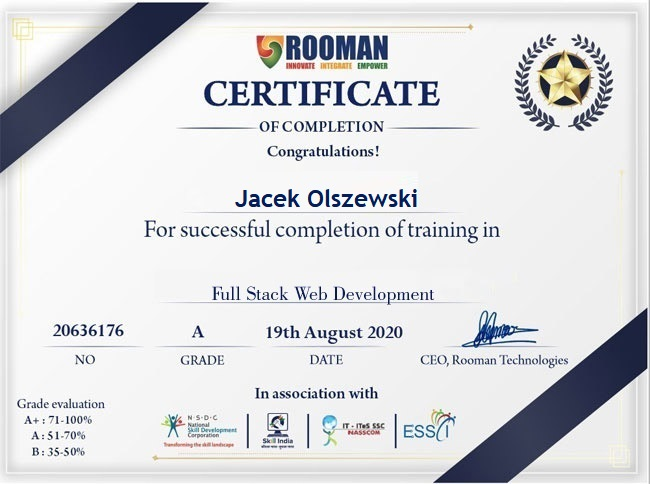
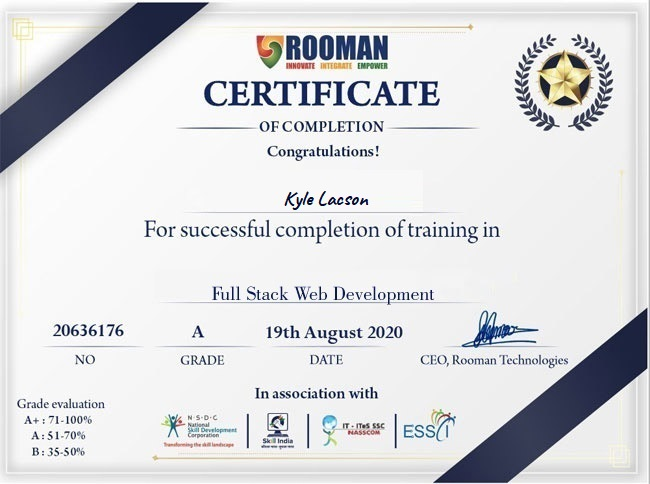
hongkong

Changed region(s): [[0.3692, 0.3719, 0.6462, 0.4339]]

diff --git a/index.html b/index.html
@@ -1,22 +1,22 @@
-<!DOCTYPE html><!--  This site was created by Jacek Olszewski (Code by Olszewski)  -->
+<!DOCTYPE html><!--  This site was created by Kyle Lacson (Code by Lacson)  -->
 <html lang="en">
 
 <head>
     <meta charset="utf-8" />
     <meta name="viewport" content="width=device-width, initial-scale=1" />
-    <title>Jacek Olszewski • Portfolio</title>
+    <title>Kyle Lacson • Portfolio</title>
     <meta name="description"
-        content="Helping brands thrive in the digital world. Located in The Poland. Delivering tailor-made digital designs and building interactive websites from scratch. © Code by Olszewski" />
-    <meta property="og:title" content="Jacek Olszewski • Freelance Designer & Developer" />
+        content="Helping brands thrive in the digital world. Located in The HongKong. Delivering tailor-made digital designs and building interactive websites from scratch. © Code by Lacson" />
+    <meta property="og:title" content="Kyle Lacson • Freelance Designer & Developer" />
     <meta property="og:description"
-        content="Helping brands thrive in the digital world. Located in The Poland. Delivering tailor-made digital designs and building interactive websites from scratch. © Code by Olszewski" />
+        content="Helping brands thrive in the digital world. Located in The HongKong. Delivering tailor-made digital designs and building interactive websites from scratch. © Code by Lacson" />
     <meta property="og:image" content="./image/profile.jpg" />
-    <meta property="og:site_name" content="Jacek Olszewski" />
+    <meta property="og:site_name" content="Kyle Lacson" />
     <meta property="og:locale" content="en" />
     <meta property="og:type" content="website" />
-    <meta property="twitter:title" content="Jacek Olszewski • Freelance Designer & Developer" />
+    <meta property="twitter:title" content="Kyle Lacson • Freelance Designer & Developer" />
     <meta property="twitter:description"
-        content="Helping brands thrive in the digital world. Located in The Poland. Delivering tailor-made digital designs and building interactive websites from scratch. © Code by Olszewski" />
+        content="Helping brands thrive in the digital world. Located in The HongKong. Delivering tailor-made digital designs and building interactive websites from scratch. © Code by Lacson" />
     <meta property="twitter:image" content="./image/profile.jpg" />
     <meta name="twitter:card" content="summary_large_image" />
     <meta name="google" content="notranslate" />
@@ -213,7 +213,7 @@
                         <h5>Socials</h5>
                         <ul>
                             <li class="btn btn-link btn-link-external">
-                                <a href="https://www.awwwards.com/JacekOlszewski/" target="_blank"
+                                <a href="https://www.awwwards.com/KyleLacson/" target="_blank"
                                     class="btn-click magnetic" data-strength="20" data-strength-text="10">
                                     <span class="btn-text">
                                         <span class="btn-text-inner">Awwwards</span>
@@ -221,7 +221,7 @@
                                 </a>
                             </li>
                             <li class="btn btn-link btn-link-external">
-                                <a href="https://www.instagram.com/codebyJacek/" target="_blank"
+                                <a href="https://www.instagram.com/codebyKyle/" target="_blank"
                                     class="btn-click magnetic" data-strength="20" data-strength-text="10">
                                     <span class="btn-text">
                                         <span class="btn-text-inner">Instagram</span>
@@ -229,7 +229,7 @@
                                 </a>
                             </li>
                             <li class="btn btn-link btn-link-external">
-                                <a href="https://twitter.com/codebyJacek" target="_blank" class="btn-click magnetic"
+                                <a href="https://twitter.com/codebyKyle" target="_blank" class="btn-click magnetic"
                                     data-strength="20" data-strength-text="10">
                                     <span class="btn-text">
                                         <span class="btn-text-inner">Twitter</span>
@@ -237,7 +237,7 @@
                                 </a>
                             </li>
                             <li class="btn btn-link btn-link-external">
-                                <a href="https://www.linkedin.com/in/JacekOlszewski/" target="_blank"
+                                <a href="https://www.linkedin.com/in/KyleLacson/" target="_blank"
                                     class="btn-click magnetic" data-strength="20" data-strength-text="10">
                                     <span class="btn-text">
                                         <span class="btn-text-inner">LinkedIn</span>
@@ -258,7 +258,7 @@
                 </div>
                 <div class="overlay get-height once-in once-in-secondary">
                     <div class="hanger">
-                        <p style="color: rgb(255, 255, 255);"><span>Located </span><span>in the Poland</span></p>
+                        <p style="color: rgb(255, 255, 255);"><span>Located </span><span>in the HongKong</span></p>
                         <?xml version="1.0" encoding="UTF-8"?>
                         <svg width="300px" height="121px" viewBox="0 0 300 121" version="1.1"
                             xmlns="http://www.w3.org/2000/svg" xmlns:xlink="http://www.w3.org/1999/xlink">
@@ -299,8 +299,8 @@
                                 <span class="btn-text">
                                     <div class="credit"><span>©</span></div>
                                     <div class="cbd"><span class="code-by">Code by </span><span class="dennis"><span
-                                                class="dennis-span">Jacek</span> <span
-                                                class="snellenberg">Olszewski</span></span>
+                                                class="dennis-span">Kyle</span> <span
+                                                class="snellenberg">Lacson</span></span>
                                 </span>
                         </div>
                         </span>
@@ -357,7 +357,7 @@
             <div class="name-h1" data-scroll data-scroll-direction="horizontal" data-scroll-speed="4"
                 data-scroll-position="top">
                 <div class="name-wrap">
-                    <h1 class="no-select once-in once-in-secondary" style="color: black !important;">Jacek Olszewski<span class="spacer">—</span></h1>
+                    <h1 class="no-select once-in once-in-secondary" style="color: black !important;">Kyle Lacson<span class="spacer">—</span></h1>
                 </div>
             </div>
         </div>
@@ -367,7 +367,7 @@
             <div class="container medium">
                 <div class="row">
                     <div class="flex-col">
-                        <h4 class="span-lines animate">I'm Jacek.<br>Having more than 7 years of experience as a senior
+                        <h4 class="span-lines animate">I'm Kyle.<br>Having more than 7 years of experience as a senior
                             Frontend Developer, you can reply on me successfully build your website. I build high-end,
                             user-friendly, and responsive websites with any custom requirements.</h4>
                     </div>
@@ -796,7 +796,7 @@
                                 <h5>Socials</h5>
                                 <ul>
                                     <li class="btn btn-link btn-link-external">
-                                        <a href="https://www.awwwards.com/JacekOlszewski/" target="_blank"
+                                        <a href="https://www.awwwards.com/KyleLacson/" target="_blank"
                                             class="btn-click magnetic" data-strength="20" data-strength-text="10">
                                             <span class="btn-text">
                                                 <span class="btn-text-inner">Awwwards</span>
@@ -804,7 +804,7 @@
                                         </a>
                                     </li>
                                     <li class="btn btn-link btn-link-external">
-                                        <a href="https://www.instagram.com/codebyJacek/" target="_blank"
+                                        <a href="https://www.instagram.com/codebyKyle/" target="_blank"
                                             class="btn-click magnetic" data-strength="20" data-strength-text="10">
                                             <span class="btn-text">
                                                 <span class="btn-text-inner">Instagram</span>
@@ -812,7 +812,7 @@
                                         </a>
                                     </li>
                                     <li class="btn btn-link btn-link-external">
-                                        <a href="https://twitter.com/codebyJacek" target="_blank"
+                                        <a href="https://twitter.com/codebyKyle" target="_blank"
                                             class="btn-click magnetic" data-strength="20" data-strength-text="10">
                                             <span class="btn-text">
                                                 <span class="btn-text-inner">Twitter</span>
@@ -820,7 +820,7 @@
                                         </a>
                                     </li>
                                     <li class="btn btn-link btn-link-external">
-                                        <a href="https://www.linkedin.com/in/JacekOlszewski/" target="_blank"
+                                        <a href="https://www.linkedin.com/in/KyleLacson/" target="_blank"
                                             class="btn-click magnetic" data-strength="20" data-strength-text="10">
                                             <span class="btn-text">
                                                 <span class="btn-text-inner">LinkedIn</span>

diff --git a/contact.html b/contact.html
@@ -388,7 +388,7 @@
                             <p>VAT: NL002323039B05</p>
                         </li>
                         <li>
-                            <p>Location: Poland</p>
+                            <p>Location: HongKong</p>
                         </li>
                     </ul>
                     <h5>Socials</h5>
